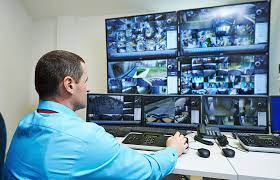
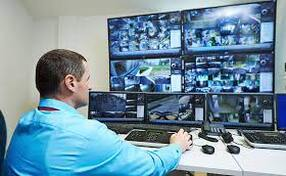
Actualizo trabajo

diff --git a/index.html b/index.html
@@ -63,7 +63,7 @@
         <h3 class="text-center mt-2 mb-2">Control de acceso</h3>
      </article>
      <article class="col-md-3">
-        <img class="img-fluid" class="banner" src="./images/monitore2.jpg" alt="Imagen Monitoreo">
+        <img class="img-fluid" class="banner" src="./images/monitoreo.jpg" alt="Imagen Monitoreo">
         <h3 class="text-center mt-2 mb-2">Monitoreo remoto</h3>
      </article>
   </div>
